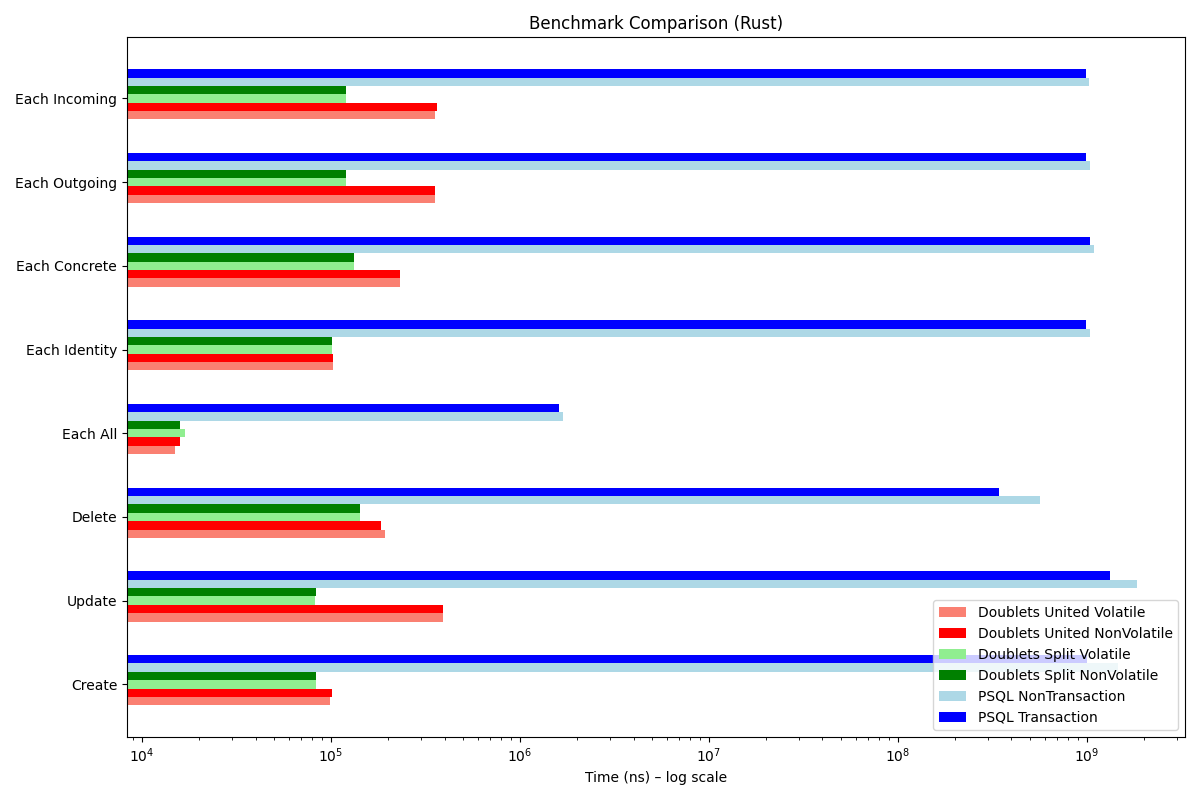
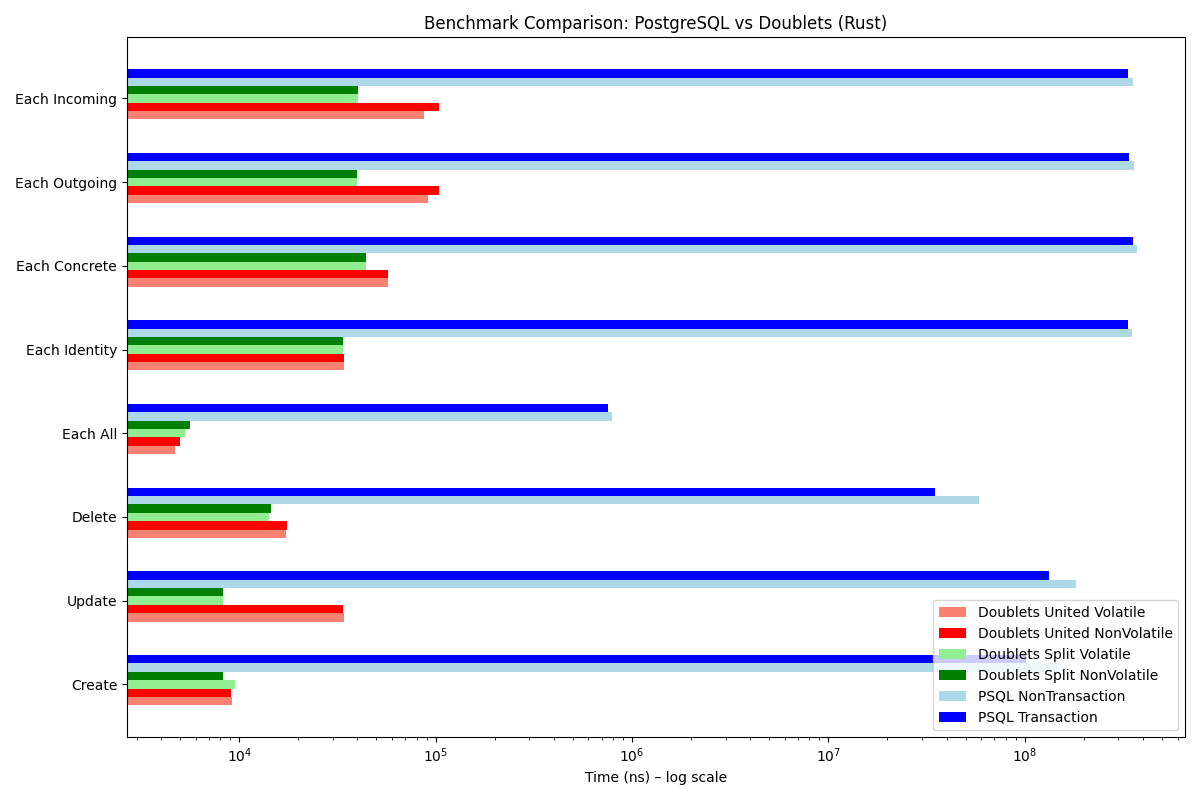
Update benchmark results

diff --git a/README.md b/README.md
@@ -32,14 +32,14 @@ The results below represent the amount of time (ns) the operation takes per iter
 
 | Operation     | Doublets United Volatile | Doublets United NonVolatile | Doublets Split Volatile | Doublets Split NonVolatile | PSQL NonTransaction | PSQL Transaction |
 |---------------|--------------------------|-----------------------------|-------------------------|----------------------------|---------------------|------------------|
-| Create        | 98074 (10163.6+ times faster) | 101753 (9796.1+ times faster) | 83158 (11986.6+ times faster) | 83555 (11929.7+ times faster) | 1418444409          | 996785265        |
-| Update        | 393717 (3328.3+ times faster) | 395531 (3313.0+ times faster) | 83090 (15770.8+ times faster) | 83222 (15745.8+ times faster) | 1708932179          | 1310397499       |
-| Delete        | 193643 (1746.4+ times faster) | 184686 (1831.1+ times faster) | 144773 (2336.0+ times faster) | 144322 (2343.3+ times faster) | 516439248           | 338185472        |
-| Each All      | 14991 (110.0+ times faster) | 16263 (101.4+ times faster) | 16860 (97.8+ times faster) | 15970 (103.2+ times faster) | 1717107             | 1648433          |
-| Each Identity | 102612 (9614.5+ times faster) | 102701 (9606.2+ times faster) | 101771 (9694.0+ times faster) | 101764 (9694.7+ times faster) | 1030793967          | 986567072        |
-| Each Concrete | 232170 (4482.9+ times faster) | 231432 (4497.2+ times faster) | 133134 (7817.6+ times faster) | 132956 (7828.0+ times faster) | 1085583098          | 1040785456       |
-| Each Outgoing | 384706 (2590.4+ times faster) | 382143 (2607.8+ times faster) | 120126 (8295.9+ times faster) | 121173 (8224.2+ times faster) | 1048393281          | 996555891        |
-| Each Incoming | 386936 (2551.7+ times faster) | 390969 (2525.4+ times faster) | 120659 (8182.9+ times faster) | 120620 (8185.6+ times faster) | 1039836582          | 987344012        |
+| Create        | 9204 (11056.4x faster)   | 9125 (11152.1x faster)      | 9478 (10736.8x faster)  | 8226 (12370.9x faster)     | 150151369           | 101763082        |
+| Update        | 34157 (3869.8x faster)   | 33954 (3892.9x faster)      | 8291 (15942.5x faster)  | 8266 (15990.8x faster)     | 182868706           | 132179627        |
+| Delete        | 17329 (2013.3x faster)   | 17451 (1999.3x faster)      | 14195 (2457.8x faster)  | 14601 (2389.5x faster)     | 58448123            | 34889131         |
+| Each All      | 4708 (160.2x faster)     | 5011 (150.5x faster)        | 5316 (141.9x faster)    | 5629 (134.0x faster)       | 793277              | 754115           |
+| Each Identity | 34190 (9780.9x faster)   | 34208 (9775.8x faster)      | 33923 (9857.9x faster)  | 33896 (9865.8x faster)     | 353408454           | 334410191        |
+| Each Concrete | 57288 (6222.6x faster)   | 57067 (6246.7x faster)      | 44231 (8059.5x faster)  | 44280 (8050.5x faster)     | 372416796           | 356478290        |
+| Each Outgoing | 91274 (3713.8x faster)   | 103925 (3261.7x faster)     | 39869 (8502.1x faster)  | 39901 (8495.3x faster)     | 358537556           | 338972159        |
+| Each Incoming | 87745 (3824.4x faster)   | 104678 (3205.7x faster)     | 40089 (8370.6x faster)  | 40144 (8359.2x faster)     | 353697010           | 335569920        |
 
 ## Conclusion
 